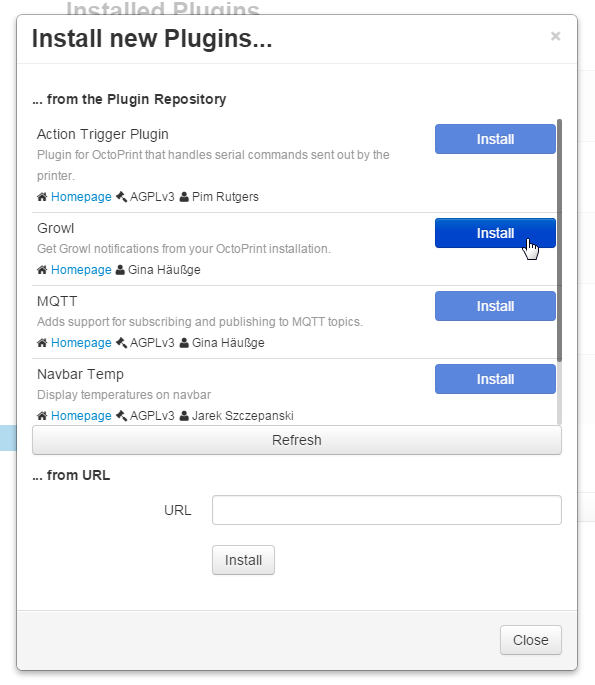
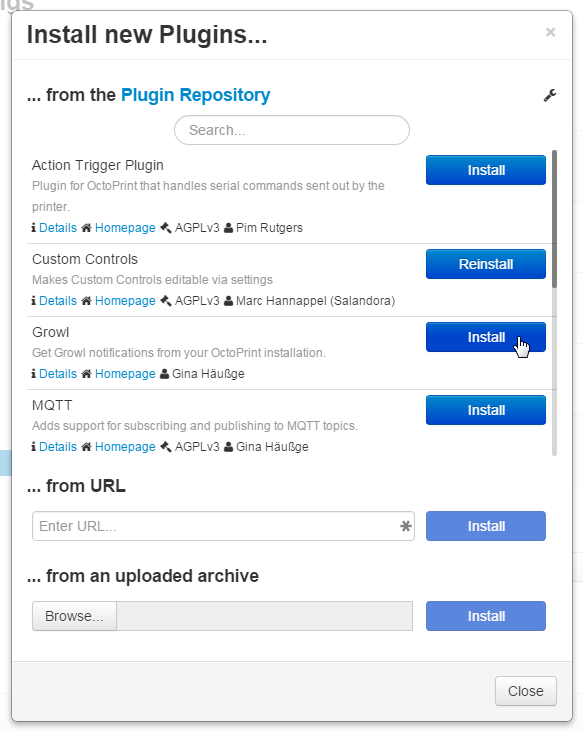
Update installation instructions for plugins
New plugin manager screenshots and note that the manager is bundled with OctoPrint

diff --git a/help/installation/index.html b/help/installation/index.html
@@ -11,8 +11,8 @@ title: Installing a plugin
     You can find instructions on how to do so <a href="https://github.com/foosel/OctoPrint/wiki/FAQ#how-can-i-switch-the-branch-of-the-octoprint-installation-on-my-octopi-image">in OctoPrint's FAQ</a>.
 </div>
 
-All plugins listed in this repository can be installed using <a href="https://github.com/OctoPrint/OctoPrint-PluginManager">OctoPrint's Plugin Manager</a>.
-or via command line.
+All plugins listed in this repository can be installed using the <a href="https://github.com/foosel/OctoPrint/wiki/Plugin:-Plugin-Manager">Plugin Manager</a>
+bundled with OctoPrint or alternatively via command line.
 
 You have these three options:
 
